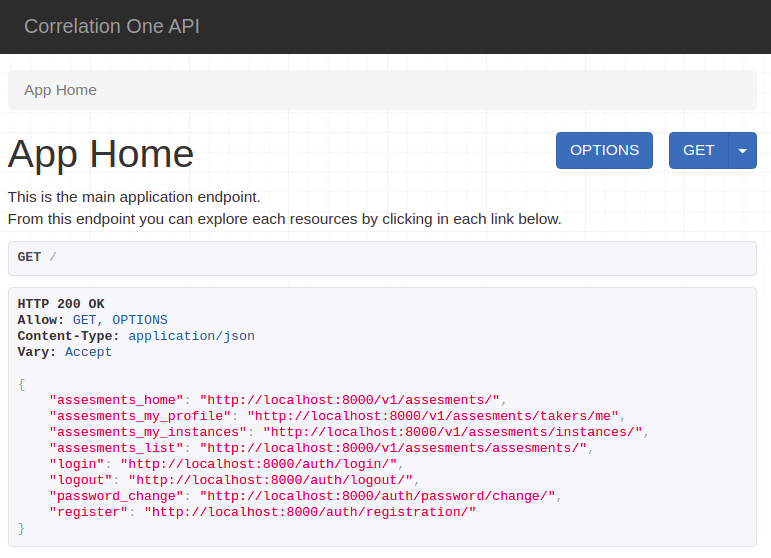
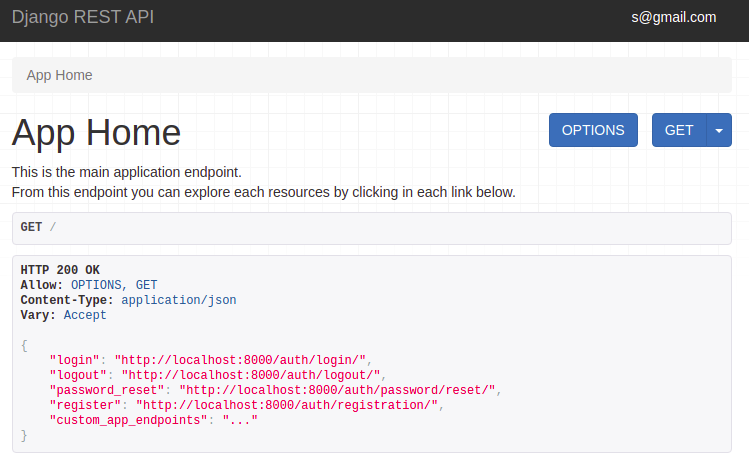
Adapts information, files and structure to Goto IoT frame

diff --git a/templates/admin/base_site.html b/templates/admin/base_site.html
@@ -1,9 +1,9 @@
 {% extends "admin/base.html" %}
 
-{% block title %}Correlation One API Admin{% endblock %}
+{% block title %}Django REST API Admin{% endblock %}
 
 {% block branding %}
-<h1 id="site-name"><a href="{% url 'admin:index' %}">Correlation One API Admin</a></h1>
+<h1 id="site-name"><a href="{% url 'admin:index' %}">Django REST API Admin</a></h1>
 {% endblock %}
 
 {% block nav-global %}{% endblock %}

diff --git a/templates/rest_framework/api.html b/templates/rest_framework/api.html
@@ -1,9 +1,9 @@
 {% extends "rest_framework/base.html" %}
 
-{% block title %}Correlation One API{% endblock %}
+{% block title %}Django REST API{% endblock %}
 
 {% block branding %}
 <a class='navbar-brand' rel="nofollow" href="{% url 'app-home' %}">
-    Correlation One API
+    Django REST API
 </a>
 {% endblock %}

diff --git a/README.md b/README.md
@@ -1,7 +1,13 @@
-DRF API
-=======
+<a href="https://www.gotoiot.com/">
+    <img src="doc/gotoiot-logo.png" alt="logo" title="Goto IoT" align="right" width="60" height="60" />
+</a>
 
-This project is a base API developed using [Django REST Framework](https://www.django-rest-framework.org/) that contains user registration, login and logout features, as well as account verification and password reset flow via email.
+Django REST API
+===============
+
+*It will really helps if you give to this project an star ⭐ in Github!*
+
+This project is an API developed using [Django REST Framework](https://www.django-rest-framework.org/) that contains user registration, login and logout features, as well as account verification and password reset flow via email.
 
 The whole application runs over Docker ecosystem and has a built-in functionality called `"Browsable API"`, which allows you to explore the entire API from a web browser. In this image you can see the main view of the service API.
 
@@ -25,13 +31,13 @@ Continue with downloading the code when you have the dependencies installed and 
 
 ### Download the code
 
-To download the code, the best thing to do is to `fork` this project to your personal account by clicking on [this link](https://github.com/agustinBassi/django-rest-api/fork). Once you have the fork to your account, download it from the terminal with this command (remember to put your username in the link):
+To download the code, the best thing to do is to `fork` this project to your personal account by clicking on [this link](https://github.com/gotoiot/service-django-rest-api/fork). Once you have the fork to your account, download it from the terminal with this command (remember to put your username in the link):
 
 ```
 git clone https://github.com/USER/django-rest-api.git
 ```
 
-> In case you don't have a Github account, or you don't want to fork, you can directly clone this repo with the command `git clone https://github.com/agustinBassi/django-rest-api.git`.
+> In case you don't have a Github account, or you don't want to fork, you can directly clone this repo with the command `git clone https://github.com/gotoiot/service-django-rest-api.git`.
 
 ### Initial project configuration
 
@@ -338,12 +344,10 @@ In this section you can see the pending functionalities of the project and a pos
 * **Run the application with a productive web server**: For the development and demonstration of the application, the Django development web server is used. If you want to implement a productive server, in [this link](https://docs.djangoproject.com/en/3.2/howto/deployment/wsgi/uwsgi/), for example, there is information to configure uWSGI.
 * **SSL encryption**: This project is for demonstration purposes, and also uses the development web server provided by Django. If you want to bring this project to a productive environment, SSL should be implemented in the webserver used. For example, in [this link](https://www.youtube.com/watch?v=NhidVhNHfeU) you will find information on how to configure certificates in Nginx. Also, in [this link](https://timonweb.com/django/https-django-development-server-ssl-certificate/) there is a tutorial on how to enable HTTPS using the Django development server.
 * **Compress responses**: If a productive web server were used, compression of the responses could be performed. In [this link](https://rtcamp.com/tutorials/nginx/enable-gzip/) there is a tutorial to enable Gzip on an Nginx server.
-* **Support other formats than text**: Although the challenge required that more than one format can be handled for questions and options, in this API they only have one format (CharField). Both plain text and HTML can be stored in this text field. If you wanted to save an image, it could be hosted in an S3 bucket and only save the URL in the field.
+* **Support other formats than text in DB**: In this API they only supported format is text based. If you wanted to save an image or other file, it could be hosted in an S3 bucket and only save the URL in the field.
 * **Automated testing**: Although having automated testing is a totally necessary feature, it was not implemented for this project. Implementing unit testing is not too complex. If you want to implement it, in [this link](https://docs.djangoproject.com/en/3.2/topics/testing/overview/) you will find all the necessary information.
-* **TODO**: check that updates over user on admin site does not impact in the EmailAddress table. Capture update signal.
-* **TODO**: add logging to whole application
-* **TODO**: change home screenshot for one without assesments
-* **TODO**: move permissions to dedicated folder instead of using it into each app
+* **Capture update signals for ApiUsers**: At this moment, if you update some user data from de admin site, it doesn't impact in the EmailAddress table, which is used for whole user authentication. The update signal must be catched and perform the EmailAddress update as well.
+* **Add logging**: at this momment, the service doesn't have logging features, but it could be a really good idea to include it.
 
 </details>
 
@@ -365,13 +369,25 @@ In this section you can see the most important technologies used.
 
 ## Contribute 🖇
 
-If you are interested in the project and would like to join muscles so that it continues to grow and improve, you can open a discussion thread to discuss your proposals at [this link](https://github.com/agustinBassi/django-rest-api/issues/new). You can also read the file [Contribute.md](https://github.com/gotoiot/gotoiot-doc/wiki/Contribuir) where the steps are well explained so that you can send pull requests.
+If you are interested in the project and would like to join muscles so that it continues to grow and improve, you can open a discussion thread to discuss your proposals at [this link](https://github.com/gotoiot/service-django-rest-api/issues/new). You can also read the file [Contribute.md](https://github.com/gotoiot/gotoiot-doc/wiki/Contribuir) where the steps are well explained so that you can send pull requests.
+
+## About Goto IoT 📖
+
+Goto IoT is a platform that publishes well-documented open source material and projects, together with a free community that collaborates and promotes knowledge about IoT and programming among its members. Here you can see the most important links:
+
+* **[Website](https://www.gotoiot.com/):** Where articles and projects on IoT are published.
+* **[Goto IoT Github:](https://github.com/gotoiot)** Where the projects are hosted to download and use.
+* **[Goto IoT Community:](https://groups.google.com/g/gotoiot)** Where community members exchange information and ideas, make inquiries, solve problems and share news.
+* **[Goto IoT Twitter:](https://twitter.com/gotoiot)** Where the news of the site and topics related to IoT are published.
+* **[Goto IoT Wiki:](https://github.com/gotoiot/doc/wiki)** Where there is supplemental development information to broaden the context.
 
 ## Tokens of appreciation 🎁
 
-If you liked this project and would like to support it, any of these actions would be more than fine for me:
+If you liked this project and would like to support it, any of these actions would be great for us:
 
 * Support this project with a ⭐ on Github to reach more people.
+* Join [our open community](https://groups.google.com/g/gotoiot)  and leave a feedback on what you think of the project.
+* [Follow us on twitter](https://twitter.com/gotoiot) and leave a comment or like.
 * Share this project with other people.
 
 ## Authors 👥
@@ -380,8 +396,12 @@ The main collaborations were made by:
 
 * **[Agustin Bassi](https://github.com/agustinBassi)**: Ideation, start-up and maintenance of the project.
 
-You can also look at all the people who have participated in the [full list of contributors](https://github.com/agustinBassi/django-rest-api/contributors).
+You can also look at all the people who have participated in the [full list of contributors](https://github.com/gotoiot/service-django-rest-api/contributors).
 
 ## License 📄
 
 This project is under ([MIT](https://choosealicense.com/licenses/mit/)) License. You can see the file [LICENSE.md](LICENSE.md) for more details on the use of this material.
+
+---
+
+**Copyright © Goto IoT 2021** - [**Website**](https://www.gotoiot.com) - [**Group**](https://groups.google.com/g/gotoiot) - [**Github**](https://www.github.com/gotoiot) - [**Twitter**](https://www.twitter.com/gotoiot) - [**Wiki**](https://github.com/gotoiot/doc/wiki)

diff --git a/doc/translations/README-ES.md b/doc/translations/README-ES.md
@@ -31,13 +31,13 @@ Continua con la descarga del código cuando tengas las dependencias instaladas y
 
 ### Descargar el código
 
-Para descargar el codigo, lo más conveniente es realizar un `fork` de este proyecto a tu cuenta personal haciendo click en [este link](https://github.com/agustinBassi/django-rest-api/fork). Una vez que ya tengas el fork a tu cuenta, descargalo desde la terminal con este comando (acordate de poner tu usuario en el link):
+Para descargar el codigo, lo más conveniente es realizar un `fork` de este proyecto a tu cuenta personal haciendo click en [este link](https://github.com/gotoiot/service-django-rest-api/fork). Una vez que ya tengas el fork a tu cuenta, descargalo desde la terminal con este comando (acordate de poner tu usuario en el link):
 
 ```
 git clone https://github.com/USER/django-rest-api.git
 ```
 
-> En caso que no tengas una cuenta en Github, o no quieras realizar un fork, podés clonar directamente este repo con el comando `git clone https://github.com/agustinBassi/django-rest-api.git` .
+> En caso que no tengas una cuenta en Github, o no quieras realizar un fork, podés clonar directamente este repo con el comando `git clone https://github.com/gotoiot/service-django-rest-api.git` .
 
 ### Configuración inicial del proyecto
 
@@ -316,7 +316,7 @@ En esta sección podés ver las tecnologías más importantes utilizadas.
 
 ## Contribuir 🖇
 
-Si estás interesado en el proyecto y te gustaría sumar fuerzas para que siga creciendo y mejorando, podés abrir un hilo de discusión para charlar tus propuestas en [este link](https://github.com/agustinBassi/django-rest-api/issues/new). Así mismo podés leer el archivo [Contribuir.md](https://github.com/gotoiot/gotoiot-doc/wiki/Contribuir) donde están bien explicados los pasos para que puedas enviar pull requests.
+Si estás interesado en el proyecto y te gustaría sumar fuerzas para que siga creciendo y mejorando, podés abrir un hilo de discusión para charlar tus propuestas en [este link](https://github.com/gotoiot/service-django-rest-api/issues/new). Así mismo podés leer el archivo [Contribuir.md](https://github.com/gotoiot/gotoiot-doc/wiki/Contribuir) donde están bien explicados los pasos para que puedas enviar pull requests.
 
 ## Muestas de agradecimiento 🎁
 
@@ -331,7 +331,7 @@ Las colaboraciones principales fueron realizadas por:
 
 * **[Agustin Bassi](https://github.com/agustinBassi)**: Ideación, puesta en marcha y mantenimiento del proyecto.
 
-También podés mirar todas las personas que han participado en la [lista completa de contribuyentes](https://github.com/agustinBassi/django-rest-api/contributors).
+También podés mirar todas las personas que han participado en la [lista completa de contribuyentes](https://github.com/gotoiot/service-django-rest-api/contributors).
 
 ## Licencia 📄
 
